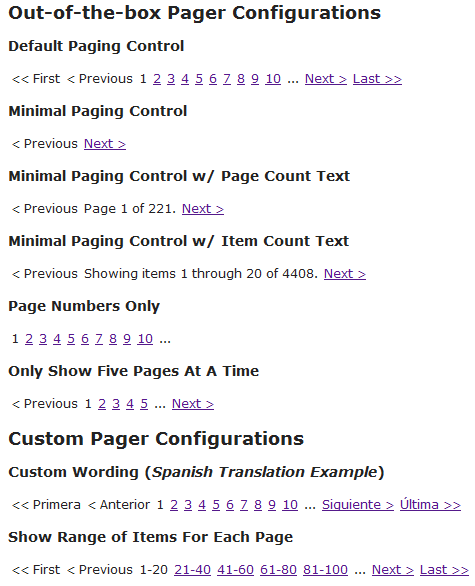
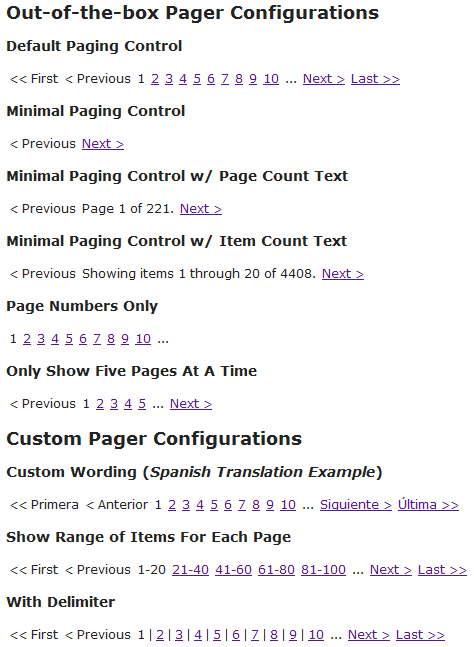
added delimiter sample to docs

Changed region(s): [[0.0, 0.0614, 1.0, 1.0], [0.0, 0.0, 0.7975, 0.0614]]

diff --git a/src/PagedList.Mvc/HtmlHelper.cs b/src/PagedList.Mvc/HtmlHelper.cs
@@ -161,6 +161,7 @@ namespace PagedList.Mvc
 			//page
 			if (options.DisplayLinkToIndividualPages)
 			{
+				//calculate start and end of range of page numbers
 				var start = 0;
 				var end = list.PageCount;
 				if (options.MaximumPageNumbersToDisplay.HasValue && list.PageCount > options.MaximumPageNumbersToDisplay)
@@ -173,20 +174,24 @@ namespace PagedList.Mvc
 						start = list.PageCount - options.MaximumPageNumbersToDisplay.Value;
 				}
 
+				//if there are previous page numbers not displayed, show an ellipsis
 				if (options.DisplayEllipsesWhenNotShowingAllPageNumbers && start > 0)
 					listItemLinks.Append(Ellipses(options.EllipsesFormat));
 
-                foreach (var i in Enumerable.Range(start, end))
-                {
-                    if (ADelimiterWasSet(options) && ThisIsNotTheFirstPage(start, i))
-                        listItemLinks.Append(options.Delimiter);
+				foreach (var i in Enumerable.Range(start, end))
+				{
+					//show delimiter between page numbers
+					if (i > start && !string.IsNullOrWhiteSpace(options.DelimiterBetweenPageNumbers))
+						listItemLinks.Append(options.DelimiterBetweenPageNumbers);
 
-                    listItemLinks.Append(options.FunctionToDisplayEachPageNumber == null
-                                             ? Page(i, list, generatePageUrl, options.LinkToIndividualPageFormat)
-                                             : Page(i, list, generatePageUrl, options.FunctionToDisplayEachPageNumber));
-                }
+					//show page number link
+					listItemLinks.Append(options.FunctionToDisplayEachPageNumber == null
+											 ? Page(i, list, generatePageUrl, options.LinkToIndividualPageFormat)
+											 : Page(i, list, generatePageUrl, options.FunctionToDisplayEachPageNumber));
+				}
 
-			    if (options.DisplayEllipsesWhenNotShowingAllPageNumbers && (start + end) < list.PageCount)
+				//if there are subsequent page numbers not displayed, show an ellipsis
+				if (options.DisplayEllipsesWhenNotShowingAllPageNumbers && (start + end) < list.PageCount)
 					listItemLinks.Append(Ellipses(options.EllipsesFormat));
 			}
 
@@ -209,15 +214,5 @@ namespace PagedList.Mvc
 
 			return new MvcHtmlString(outerDiv.ToString());
 		}
-
-	    private static bool ThisIsNotTheFirstPage(int start, int i)
-	    {
-	        return (i > start);
-	    }
-
-	    private static bool ADelimiterWasSet(PagedListRenderOptions options)
-	    {
-	        return (string.IsNullOrEmpty(options.Delimiter) == false);
-	    }
 	}
 }

diff --git a/src/PagedList.Mvc/PagedListRenderOptions.cs b/src/PagedList.Mvc/PagedListRenderOptions.cs
@@ -156,10 +156,10 @@ namespace PagedList.Mvc
 		/// </summary>
 		public Func<int, string> FunctionToDisplayEachPageNumber { get; set; }
 
-        /// <summary>
-        /// Text that will appear between each page.
-        /// </summary>
-        public string Delimiter { get; set; }
+		/// <summary>
+		/// Text that will appear between each page number. If null or whitespace is specified, no delimiter will be shown.
+		/// </summary>
+		public string DelimiterBetweenPageNumbers { get; set; }
 
 		///<summary>
 		/// Shows only the Previous and Next links.
